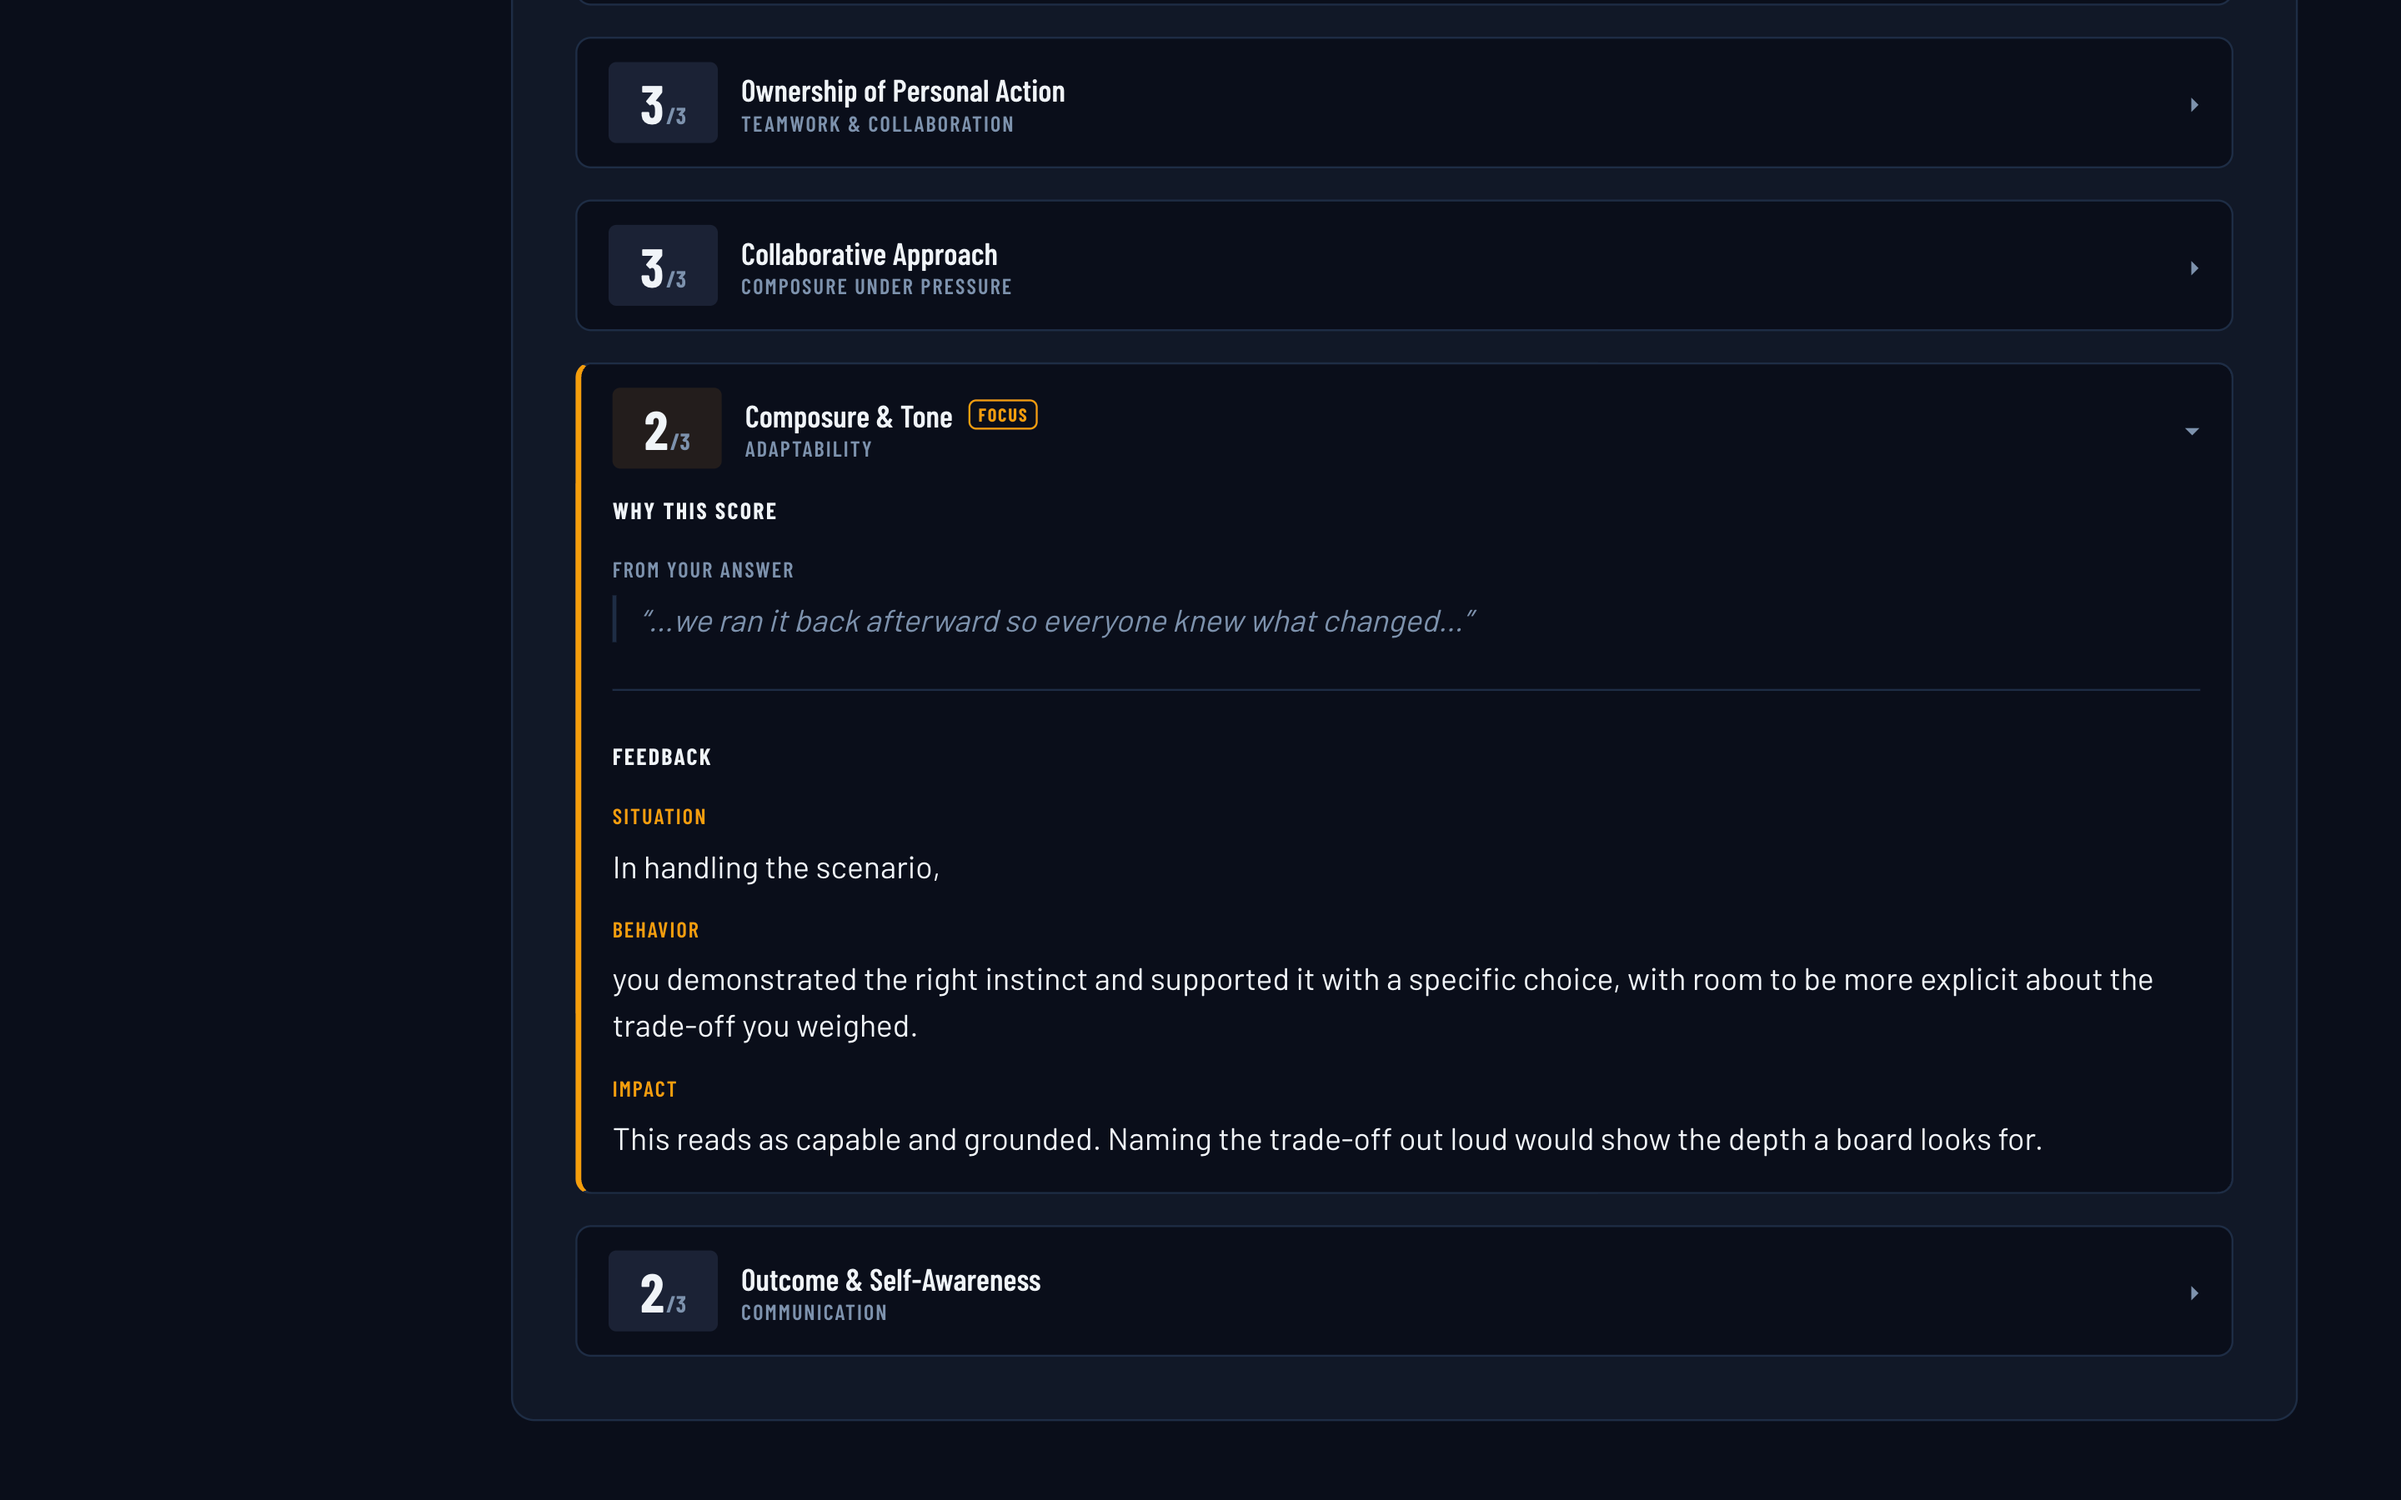
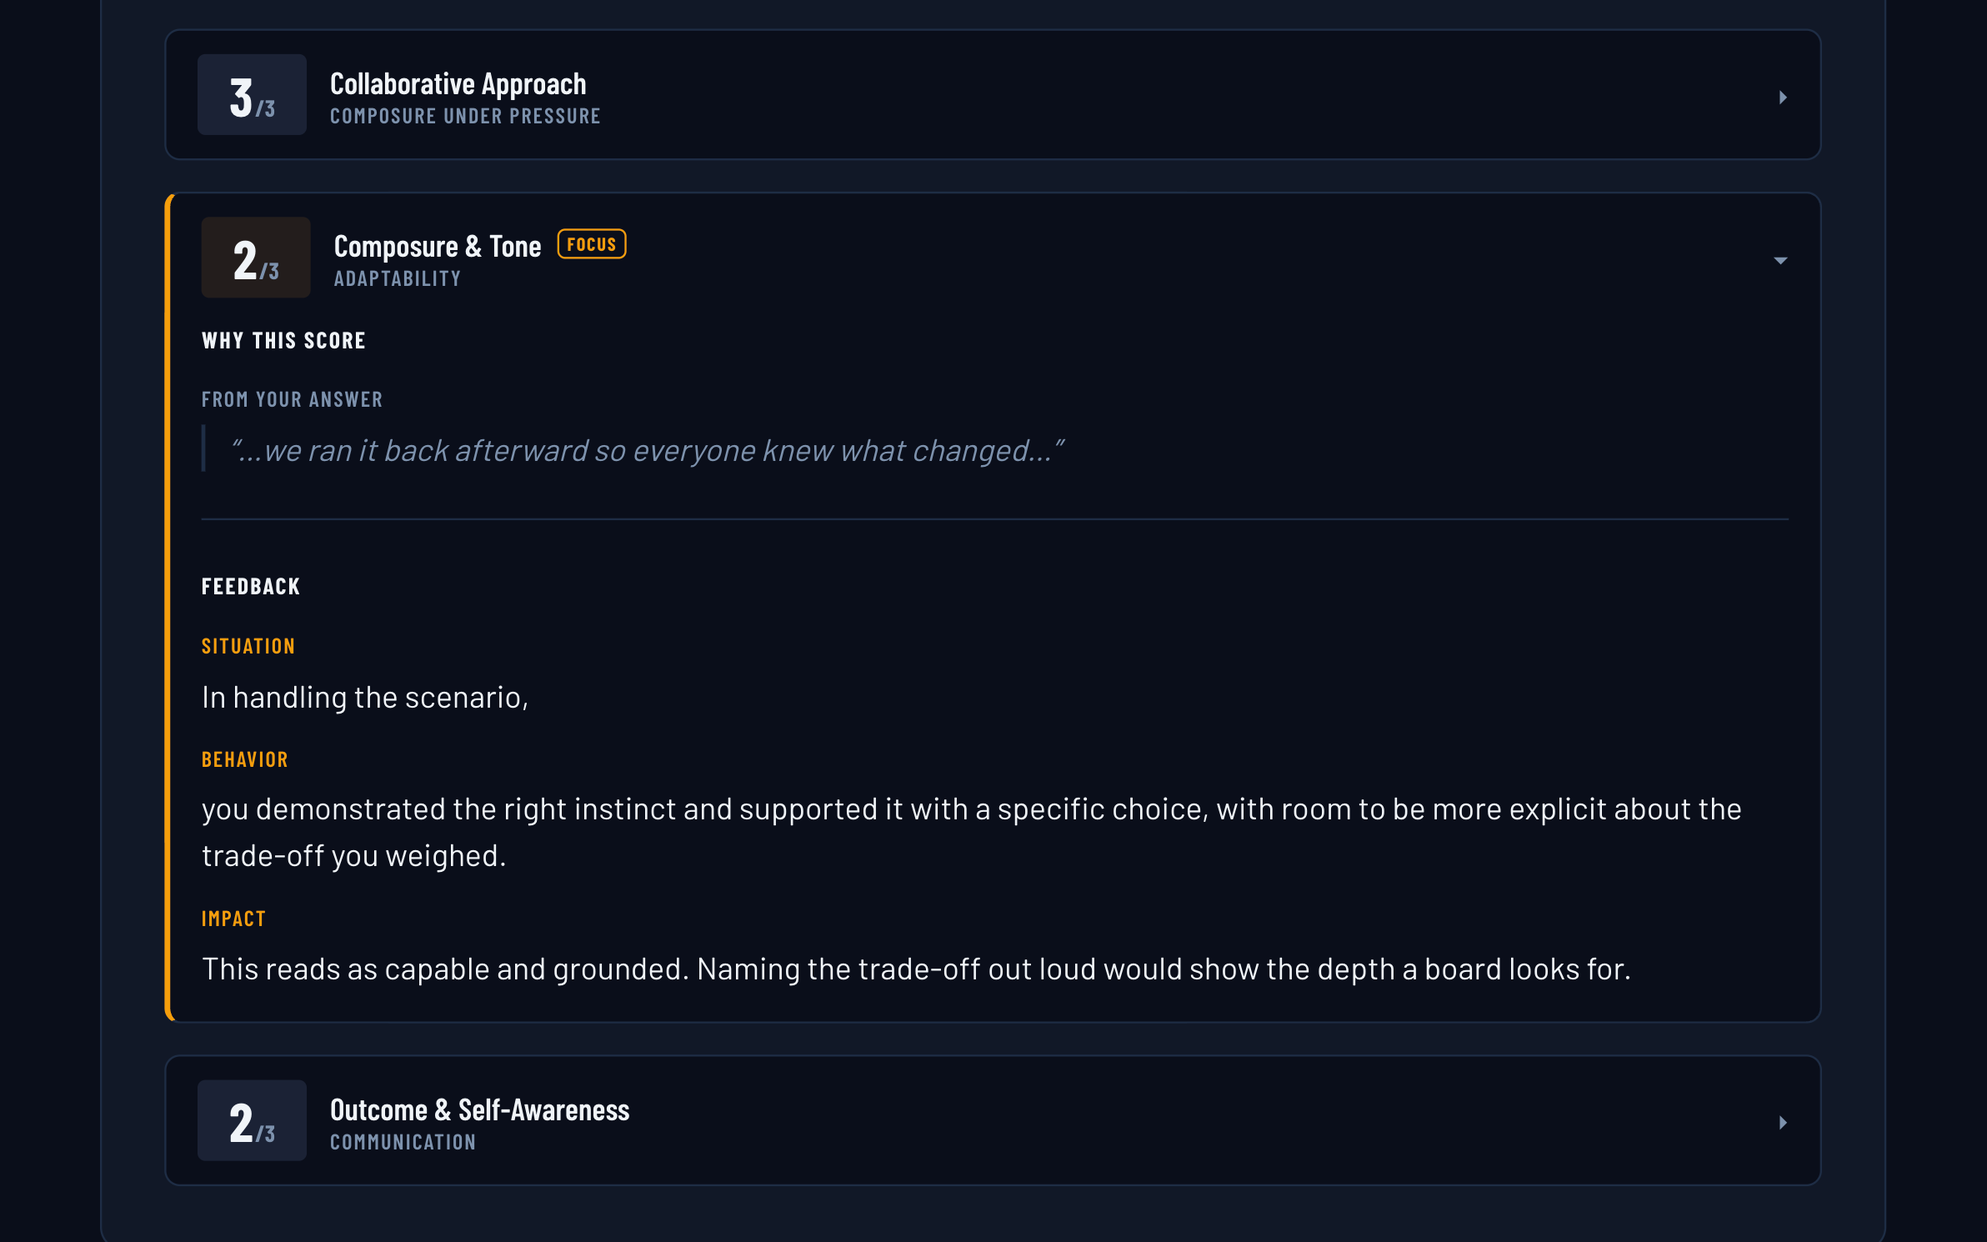
Preview fixes: recenter scored screenshot, dot 1 position, About photo size, new homepage founder photo

Changed region(s): [[0.0621, 0.1544, 0.9002, 0.8027], [0.0931, 0.0309, 0.4346, 0.1235], [0.0931, 0.8336, 0.4346, 0.957]]

diff --git a/src/app/page.tsx b/src/app/page.tsx
@@ -699,19 +699,19 @@ export default function Home() {
               </div>
             </div>
 
-            {/* Photo slot. TODO: founder.jpg is the training-burn shot, not a
-                portrait. Scott to supply a real portrait; drop it in here and
-                update the alt text. Frame and sizing stay as-is. */}
-            <div>
+            {/* Photo: portrait at the image's own ratio, capped so it never
+                outweighs the copy (300px centred on mobile, 360px from lg).
+                The caption shares the cap so it reads as the photo's credit. */}
+            <div className="mx-auto w-full max-w-[300px] lg:mx-0 lg:max-w-[360px]">
               <div
                 className="relative w-full overflow-hidden rounded-md border border-border"
-                style={{ aspectRatio: "1035/691", maxHeight: "440px" }}
+                style={{ aspectRatio: "1038/1266" }}
               >
                 <Image
-                  src="/founder.jpg"
-                  alt="Scott Shimala, active firefighter and founder of First Call"
+                  src="/scott-ff.png"
+                  alt="Scott Shimala in turnout gear and an SCBA, kneeling with his facepiece"
                   fill
-                  sizes="(max-width: 1024px) 100vw, 50vw"
+                  sizes="(max-width: 1023px) 300px, 360px"
                   className="object-cover"
                 />
               </div>

diff --git a/src/app/how-it-works/page.tsx b/src/app/how-it-works/page.tsx
@@ -115,14 +115,14 @@ const SCORING_CALLOUTS: {
     title: "A rubric for every question",
     body: "Each question has its own criteria and defined score levels. A teamwork question is graded on teamwork, not on a generic checklist.",
     side: "left",
-    x: 23,
+    x: 8,
     y: 18,
   },
   {
     title: "Feedback that quotes you",
     body: "The feedback points to what you actually said, so you can see exactly which part of your answer earned the score and which part cost you.",
     side: "left",
-    x: 9,
+    x: 8,
     y: 61,
   },
   {

diff --git a/src/app/about/page.tsx b/src/app/about/page.tsx
@@ -113,9 +113,9 @@ export default function AboutPage() {
               aspect="4/5"
               frame="none"
               placeholderKind="Photo"
-              sizes="(max-width: 767px) 100vw, 40vw"
+              sizes="(max-width: 767px) 340px, 380px"
               eager
-              className="mx-auto w-full max-w-[420px] md:max-w-none"
+              className="mx-auto w-full max-w-[340px] md:mr-0 md:max-w-[380px]"
             />
           </div>
         </div>
